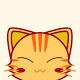
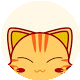
make all profile circle

Changed region(s): [[0.0, 0.0, 1.0, 0.5], [0.0, 0.575, 0.4, 1.0], [0.6, 0.6, 1.0, 1.0]]

diff --git a/utils/updateMembershipList/createMemberProfileImageSprite.js b/utils/updateMembershipList/createMemberProfileImageSprite.js
@@ -18,7 +18,7 @@ function toCircleImage(img_path) {
   return new Promise((resolve, reject) => {
     fs.createReadStream(img_path)
       .pipe(new PNG({ filterType: 4 }))
-      .on('parsed', function () {
+      .on('parsed', async function () {
         let radius = this.width / 2
         for (var y = 0; y < this.height; y++) {
           for (var x = 0; x < this.width; x++) {
@@ -28,35 +28,41 @@ function toCircleImage(img_path) {
             }
           }
         }
-        this.pack().pipe(fs.createWriteStream(img_path))
+        var stream = this.pack().pipe(fs.createWriteStream(img_path))
 
-        return resolve()
+        stream.on('finish', () => {
+          return resolve(img_path)
+        })
       })
   })
 }
 
 const main = async function () {
-  const profileImages = fs.readdirSync(profile_images_path)
+  var profileImages = fs.readdirSync(profile_images_path)
     .filter(_ => {
       return _.indexOf('.jpg') > 0
     })
-    .map(async _ => {
-      const file = path.resolve(profile_images_path, _)
-      const f = await toPNG(file)
-      await toCircleImage(f)
-      return file
+    .map(_ => {
+      return new Promise(async (resolve, reject) => {
+        var file = path.resolve(profile_images_path, _)
+        file = await toPNG(file)
+        file = await toCircleImage(file)
+        resolve(file)
+      })
     })
-
+  profileImages = await Promise.all(profileImages)
+  // console.log(profileImages)
+  // return
   Spritesmith.run({ src: profileImages }, function handleResult(err, result) {
     if (err) {
-      return console.error(err)
+      return console.error('Spritesmith', err)
     }
     result.image; // Buffer representation of image
     result.coordinates; // Object mapping filename to {x, y, width, height} of image
     result.properties; // Object with metadata about spritesheet {width, height}
 
     // save processed image
-    fs.writeFileSync(path.resolve(profile_images_path, '../members-profile-sprite.jpg'), result.image);
+    fs.writeFileSync(path.resolve(profile_images_path, '../members-profile-sprite.png'), result.image);
     result.coordinates
 
     // remove full path of coordinates
